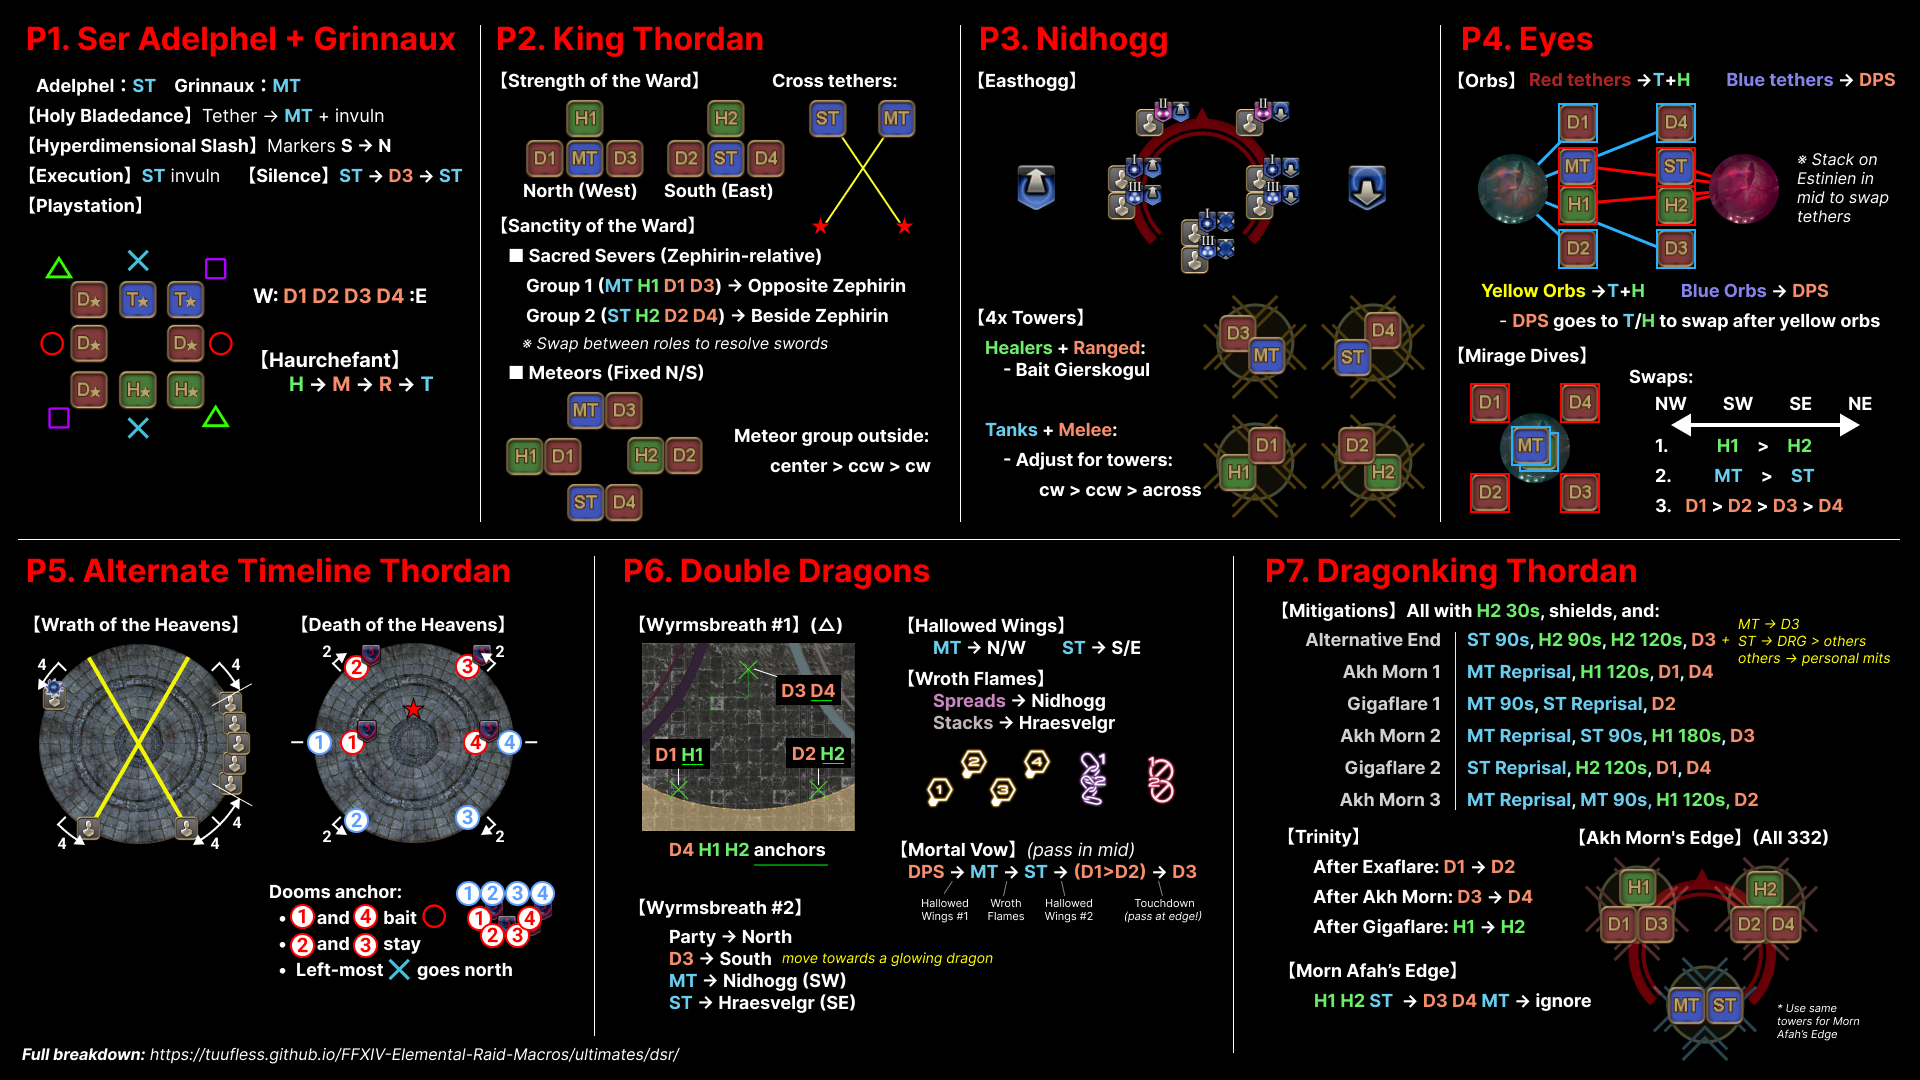
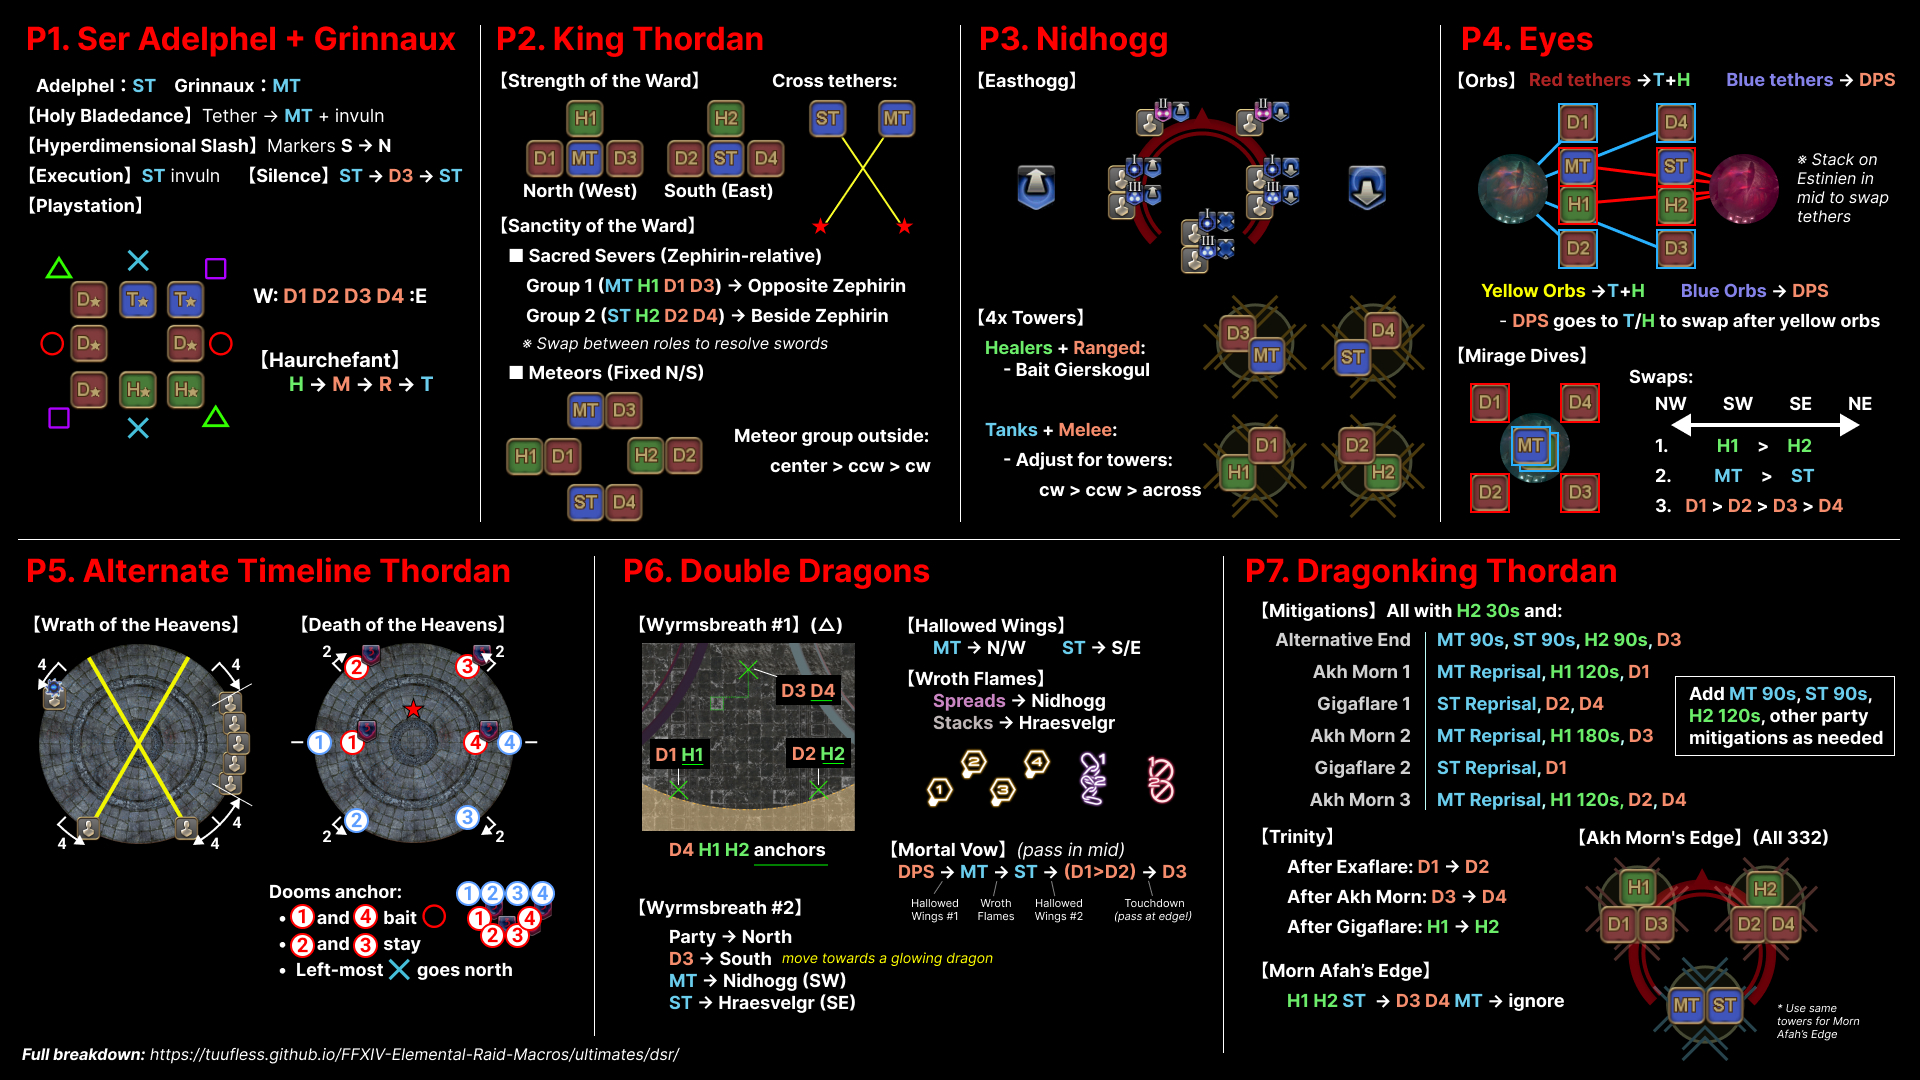
Rework AE + P7 mitigations to a framework

Changed region(s): [[0.625, 0.5194, 1.0, 0.9472], [0.4688, 0.7639, 0.625, 0.8556]]

diff --git a/ultimates/dsr/07_dragonking_thordan/index.en.md b/ultimates/dsr/07_dragonking_thordan/index.en.md
@@ -16,39 +16,45 @@ the main mechanics loop.
 
 ## Mitigations
 
-This phase requires planning out and coordinating mitigations. The recommended
-base mitigation is:
+This phase requires some mitigation planning. As a baseline, start with:
 
 <table>
   <tr>
     <td><b>Akh Morn's Edge #1</b></td>
-    <td>MT Reprisal, H1 120s, H2 30s, D1, D4</td>
+    <td>MT Reprisal, H1 120s, D2</td>
   </tr>
   <tr>
     <td><b>Gigaflare's Edge #1</b></td>
-    <td>MT 90s, ST Reprisal, H2 30s, D2</td>
+    <td>MT 90s, ST Reprisal, D1, D4</td>
   </tr>
   <tr>
     <td><b>Akh Morn's Edge #2</b></td>
-    <td>MT Reprisal, ST 90s, H1 180s, H2 30s, D3</td>
+    <td>MT Reprisal, H1 180s, D3</td>
   </tr>
   <tr>
     <td><b>Gigaflare's Edge #2</b></td>
-    <td>ST Reprisal, H2 30s, H2 120s D1, D4</td>
+    <td>ST Reprisal, D2</td>
   </tr>
   <tr>
     <td><b>Akh Morn's Edge #3</b></td>
-    <td>MT Reprisal, MT 90s, H1 120s, H2 30s, D2</td>
+    <td>MT Reprisal, H1 120s, D1, D4</td>
   </tr>
 </table>
 
-The above mitigation plan was made in the *absence* of jobs that provide more
-than one sort of mitigation such as PLD's Passage of Arms, AST's Collective
-Unconsciousness, DNC's Improvisation, or RDM's Magick Barrier.
+Note that the above is just a *baseline* and does not make any recommendations
+on how to use the other available party mitigations, like MT 90s, ST 90s,
+H2 120s (*Expedient/Holos* and *Consolation/Panhaima*), or other pieces of
+mitigation like Magick Barrier or Dismantle.
+
+Add those mitigations as appropriate to supplement the above framework.
 
 <div style="background-color: #002 ; padding: 10px; border: 1px solid;">
-  <b>Tip:</b> H2's 30s mitigations should be used when Akh Morn's Edge begins
-  its cast for it to be back up in time for Gigaflare's Edge.
+  <p><b>Tip:</b> H2's 30s mitigations should be used when Akh Morn's Edge begins
+  its cast (after the second Trinity attack) to be back up in time for
+  Gigaflare's Edge.</p>
+  <p>90s mitigations used when Akh Morn's Edge begins its cast will cover the
+  Akh Morn's Edge <em>and</em> be back up in time for the <em>next</em> Akh
+  Morn's Edge.</p>
 </div>
 
 ---
@@ -302,3 +308,72 @@ are:
     <td>During Akh Morn's Edge #3</td>
   </tr>
 </table>
+
+---
+
+## Frequently Asked Questions
+
+<details markdown=block>
+<summary>
+  <b>[Mitigation]</b> Why doesn't the mit plan contain <em>all</em> the basic
+  party mitigations for the phase? Why are MT90s, ST90s and H2 120s missing?</p>
+</summary>
+<table>
+  <tr>
+    <td>
+      <p>This is partly a spillover effect from <em>Alternative End</em>,
+      because depending on whether the party has a SCH or a SGE, the H2 may or
+      may not have their 120s mitigation (<em>Expedient</em> versus
+      <em>Holos</em>) available.</p>
+      <p>SCH and SGE also have different preferences when it comes to their
+      shielding 120s (<em>Consolation</em> versus <em>Panhaima</em>)- in
+      particular, SGE would want to use <em>Panhaima</em> to mitigate <em>Akh
+      Morn's Edge</em>, while the ability to <em>Summon Seraph</em> well in
+      advance of applying <em>Consolation</em> makes it well suited for
+      <em>Gigaflare's Edge</em>.</p>
+      <p>Notionally, I also don't have a good way to separate the "shield" H2
+      120s (<em>Consolation</em> versus <em>Panhaima</em>) from the
+      "mitigation" H2 120s (<em>Expedient</em> versus <em>Holos</em>) which
+      would add to the confusion. As a result, I would prefer to just leave it
+      up to the player to determine how to best supplement the provided
+      framework.</p>
+      <p>There are also differences with the tank mitigations- the "shield" 90s
+      mitigations (<em>Shake It Off</em> versus <em>Divine Veil</em>) are
+      particularly nice at <em>Gigaflare's Edge</em> (also for their added
+      bonus heal), while the "mitigation" 90s (<em>Dark Missionary</em> and
+      <em>Heart of Light</em>) shine against <em>Akh Morn's Edge</em>.</p>
+      <p>The 90s cooldown also means that timed correctly, you can get a third
+      use out of the tank mitigations for the second and third <em>Akh Morn's
+      Edge</em>.</p>
+      <p>There's also the fine print on <em>Shake It Off</em> which would
+      dispel a WAR's mitigations if used in the wrong order. Since
+      <em>Vengeance</em> use isn't specified, nor whether the WAR would be MT
+      or ST, it is left to the player to determine when best to use <em>Shake
+      It Off</em>.</p>
+    </td>
+  </tr>
+</table>
+</details>
+
+
+---
+
+## Troubleshooting
+
+<details markdown=block>
+<summary>
+  <b>[Akh Morn's Edge]</b> How did my WAR die?</p>
+</summary>
+<table>
+  <tr>
+    <td>
+      <p>Check that the WAR did not use <em>Shake It Off</em> after
+      <em>Vengeance</em>, as <em>Shake It Off</em> removes a WAR's buffs
+      (except for <em>Rampart</em>) if used later.</p>
+      <p>This is something to pay attention to in the second <em>Akh Morn's
+      Edge</em> in particular, as <em>Shake It Off</em> comes back off
+      cooldown there after using it at <em>Alternative End</em>.</p>
+    </td>
+  </tr>
+</table>
+</details>

diff --git a/ultimates/dsr/06_double_dragons/index.en.md b/ultimates/dsr/06_double_dragons/index.en.md
@@ -718,30 +718,11 @@ You will need about six pieces of party mitigation to survive *Alternative End*.
   <tr>
     <td><b>Alterative End</b></td>
     <td>
-      <p>ST 90s, H2 90s, H2 30s, H2 120s, D3</p>
-      <p>Personal/targeted mits:</p>
-      <ul>
-        <li><b>MT</b> → D3</li>
-        <li><b>ST</b> → DRG > others</li>
-        <li><b>Everyone else</b> → Use personal mitigations</li>
-      </ul>
-      <p>Use any "extra" mitigations <em>(Collective Unconsciousness, Fey
-      Illumination, Improvisation, Magicked Barrier, Passage of Arms, etc.)</em></p>
+      <p>MT 90s, ST 90s, H2 30s, H2 90s, D3</p>
+      <p><em>(Add H2 120s, other party mitigations as needed.)</em></p>
     </td>
   </tr>
 </table>
-
-- Use any abilities that boost healing potency to help enchance H2's shields
-  (Asylum, Fey Illumination, Mantra, Nature's Minne)
-- Use any personal or targeted mitigation/shields here (Arcane Crest, Third
-  Eye, Radiant Aegis, Riddle of Earth, etc.)
-  - Healers should use targeted mitigations on themselves (Aquaveil,
-    Exaltation, Protraction). Taurochole does not stack with Kerachole, but a
-    SGE can use Krasis on themselves to boost the shields they receive.
-  - The MT should target D3 with targeted mitigations, as D3 is the only role
-    that does not have personal mitigation/shields.
-  - The ST should target a DRG if one is in the party, as DRG is the only melee
-    that does not have personal mitigation/shields.
 
 <div style="background-color: #200 ; padding: 10px; border: 1px solid;">
 <b>Note:</b> Each Bleed tick deals about ~14k damage. Make sure you
@@ -751,8 +732,9 @@ completely!
 <div style="background-color: #002 ; padding: 10px; border: 1px solid;">
 <p><b>Tip:</b> Thordan will announce <em>"Hahahaha! By the power of mine
 enemy's eyes..."</em> just before the second round of bleeds are applied.</p>
-A DNC should start Improvisation when the dialogue box <em>disappears</em>
-to get the maximum value out of Improvisation's shields.
+A DNC should start <em>Improvisation</em> when the dialogue box
+<em>disappears</em> to get the maximum value out of <em>Improvisation</em>'s
+shields.
 </div>
 
 ---
@@ -885,44 +867,23 @@ to get the maximum value out of Improvisation's shields.
 </table>
 </details>
 
----
-
-## Troubleshooting
-
 <details markdown=block>
 <summary>
-  <b>[Alternative End]</b> Some party members are still dying with the mitigation plan!
+  <b>[Alternative End]</b> What do you mean by "Add H2 120s as needed?"
 </summary>
 <table>
   <tr>
     <td>
-      <p>To recap, the mitigation plan calls to mitigate Alternative End with:</p>
-      <ol>
-        <li>H2 30s</li>
-        <li>H2 90s</li>
-        <li>H2 120s</li>
-        <li>ST 90s</li>
-        <li>D3</li>
-      </ol>
-      <p>This isn't <em>quite</em> enough, as Alternative End deals over twice
-      a healer's max HP in damage.</p>
-      <p>However, SCH is uniquely positioned to be <em>very</em> effective
-      against Alternative End because Fey Illumination serves as an extra
-      piece of mitigation. Combined with Protraction, Recitation and Deployment
-      Tactics, the party usually has <em>more</em> than enough shielding to 
-      survive.</p>
+      <p>As a single, hard-hitting raid-wide with time to setup, SCH is
+      uniquely positioned to be <em>very</em> effective against <em>Alternative
+      End</em>.</p>
+      <p><em>Fey Illumination</em>, combined with <em>Protraction</em>,
+      <em>Recitation</em>, and <em>Deployment Tactics</em>, allows the SCH to
+      mitigate <em>Alternative End</em> without using having to add
+      <em>Expedient</em> to the mix.</p>
       <p>SGE, on the other hand, doesn't have the raw shielding power that a
-      SCH has, and this becomes problematic when the healers are WHM + SGE, and
-      there are no other extra party mitigations available (i.e: no PLD, RDM,
-      DNC).</p>
-      <p>In such cases, the tanks and healers will need to use their targeted
-      mitigations to cover the players that need help- typically the two
-      healers, D3, and any melee that doesn't have personal shields (DRG).</p>
-      <p>A SGE will also want to boost their healing output, not with just Zoe,
-      but with other tools as well, like Physis, Asylum, and Nature's Minne.</p>
-      <p>Note that a SGE's Kerachole and Taurochole will not stack. However, a
-      SGE can use Krasis on their target to provide a strong enough shield that
-      can be used instead.</p>
+      SCH has, and they will likely need to add <em>Holos</em> for the party to
+      survive <em>Alternative End</em>.</p>
     </td>
   </tr>
 </table>
